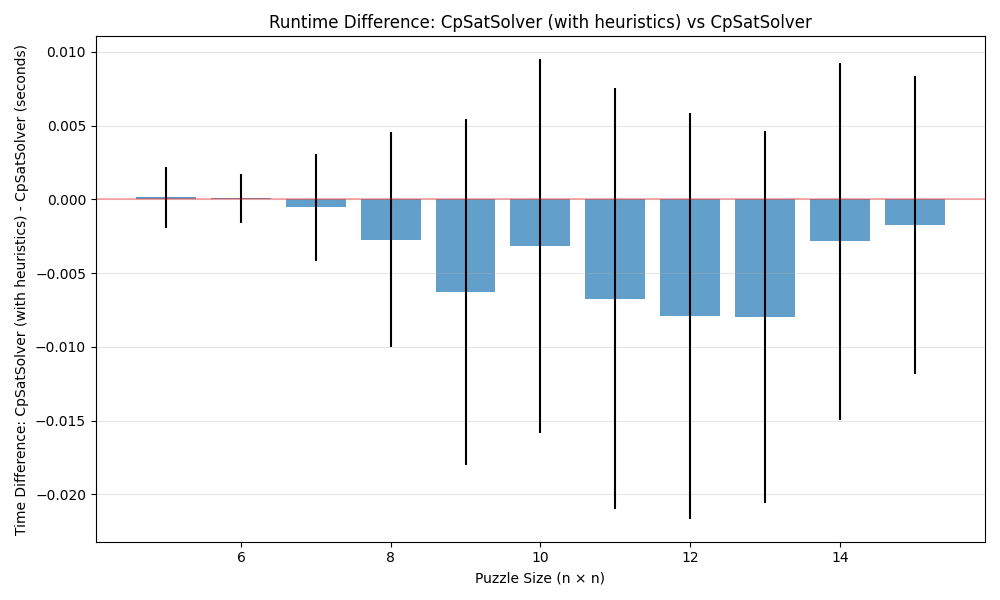
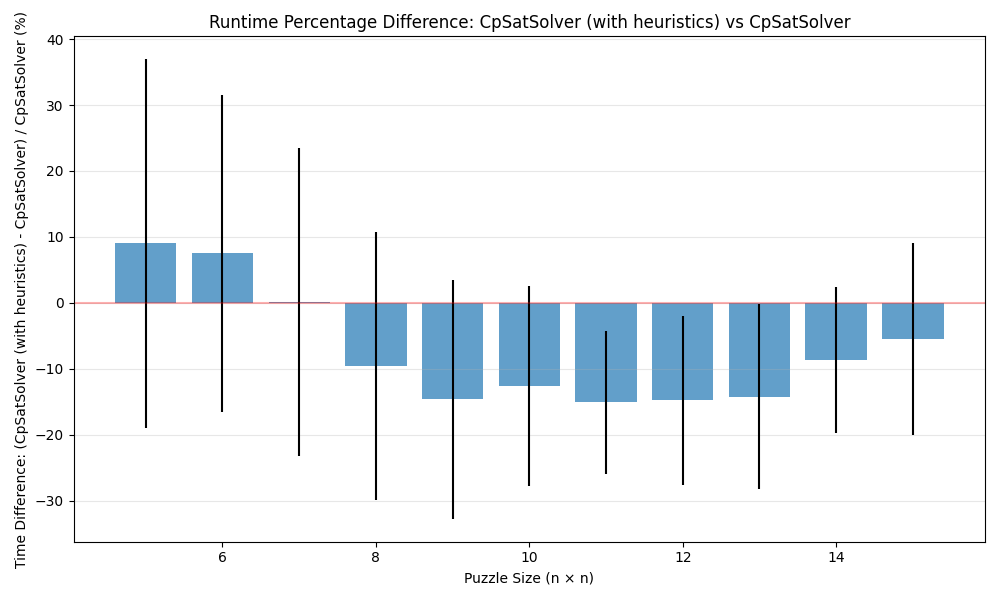
graph changes

diff --git a/evaluate_runtime.py b/evaluate_runtime.py
@@ -91,7 +91,7 @@ def evaluate_solvers(solvers, puzzle_dir="puzzles", sizes=None):
     
     return results
 
-def plot_execution_time_vs_size(results):
+def plot_execution_time_vs_size(results, log_scale=False):
     """Plot average execution time vs puzzle size for all solvers"""
     sizes = results["sizes"]
     solver_names = [key for key in results.keys() if key != "sizes"]
@@ -113,20 +113,20 @@ def plot_execution_time_vs_size(results):
     
     # Use log scale if max time >= 10x min time
     all_times = [time for solver in solver_names for size in sizes for time in results[solver][size]]
-    if max(all_times) / max(0.000001, min(all_times)) > 10:
+    if log_scale and max(all_times) / max(0.000001, min(all_times)) > 10:
         plt.yscale("log")
         plt.title("Solver Performance vs Puzzle Size (Log Scale)")
     
     plt.tight_layout()
     # Output directory
     os.makedirs("figs", exist_ok=True)
-    plt.savefig("figs/execution_time_vs_size.png")
+    plt.savefig("figs/execution_time_vs_size.png" if not log_scale else "figs/execution_time_vs_size_log.png")
     plt.close()
 
 
-def plot_execution_time_difference(results, solver1, solver2):
+def plot_execution_time_percentage_difference(results, solver1, solver2):
     """
-    Plot runtime difference between two solvers
+    Plot runtime percentage difference between two solvers
     
     Args:
         results: Dictionary with results from evaluate_solvers
@@ -141,25 +141,26 @@ def plot_execution_time_difference(results, solver1, solver2):
     
     plt.figure(figsize=(10, 6))
     
-    differences = []
-    std_diffs = []
+    percentage_diffs = []
+    std_percentage_diffs = []
     
     for size in sizes:
-        diffs = [results[solver2][size][i] - results[solver1][size][i] 
-                for i in range(len(results[solver1][size]))]
+        # Calculate percentage differences
+        perc_diffs = [(results[solver2][size][i] - results[solver1][size][i]) / max(results[solver1][size][i], 1e-6) * 100 
+                    for i in range(len(results[solver1][size]))]
         
-        differences.append(np.mean(diffs))
-        std_diffs.append(np.std(diffs))
+        percentage_diffs.append(np.mean(perc_diffs))
+        std_percentage_diffs.append(np.std(perc_diffs))
     
     # Create bar chart
-    plt.bar(sizes, differences, yerr=std_diffs, alpha=0.7)
+    plt.bar(sizes, percentage_diffs, yerr=std_percentage_diffs, alpha=0.7)
     
     # Baseline 0 horizontal line
     plt.axhline(y=0, color="r", linestyle="-", alpha=0.3)
     
     plt.xlabel("Puzzle Size (n × n)")
-    plt.ylabel(f"Time Difference: {solver2} - {solver1} (seconds)")
-    plt.title(f"Runtime Difference: {solver2} vs {solver1}")
+    plt.ylabel(f"Time Difference: ({solver2} - {solver1}) / {solver1} (%)")
+    plt.title(f"Runtime Percentage Difference: {solver2} vs {solver1}")
     plt.grid(True, axis="y", alpha=0.3)
     
     plt.tight_layout()
@@ -180,9 +181,10 @@ if __name__ == "__main__":
     results = evaluate_solvers(solvers, sizes=list(range(5,16)))
     
     # Create visualizations
-    plot_execution_time_vs_size(results)
+    plot_execution_time_vs_size(results, log_scale=False)
+    plot_execution_time_vs_size(results, log_scale=True)
     solver_names = list(solvers.keys())
     for i, solver1 in enumerate(solver_names):
         for solver2 in solver_names[i+1:]:
-            plot_execution_time_difference(results, solver1, solver2)
+            plot_execution_time_percentage_difference(results, solver1, solver2)
     print("Evaluation done.")
